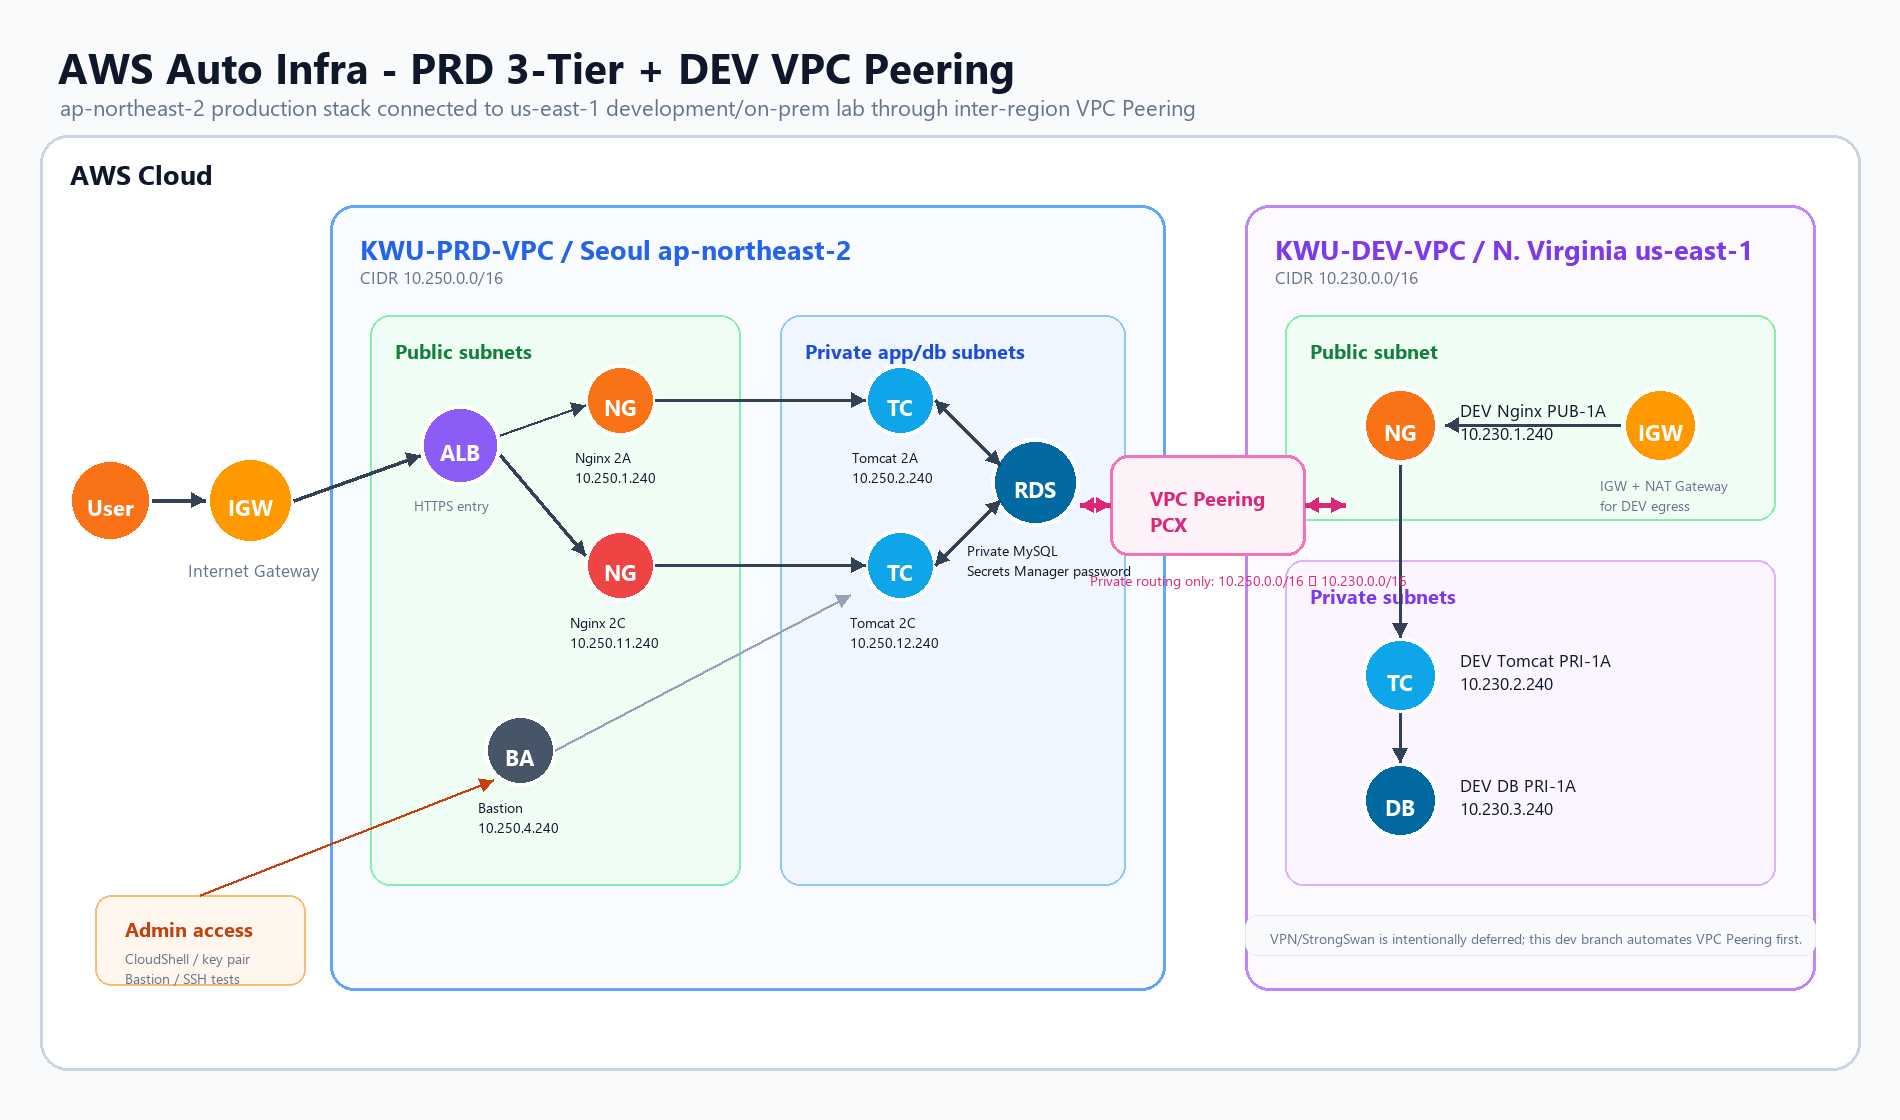
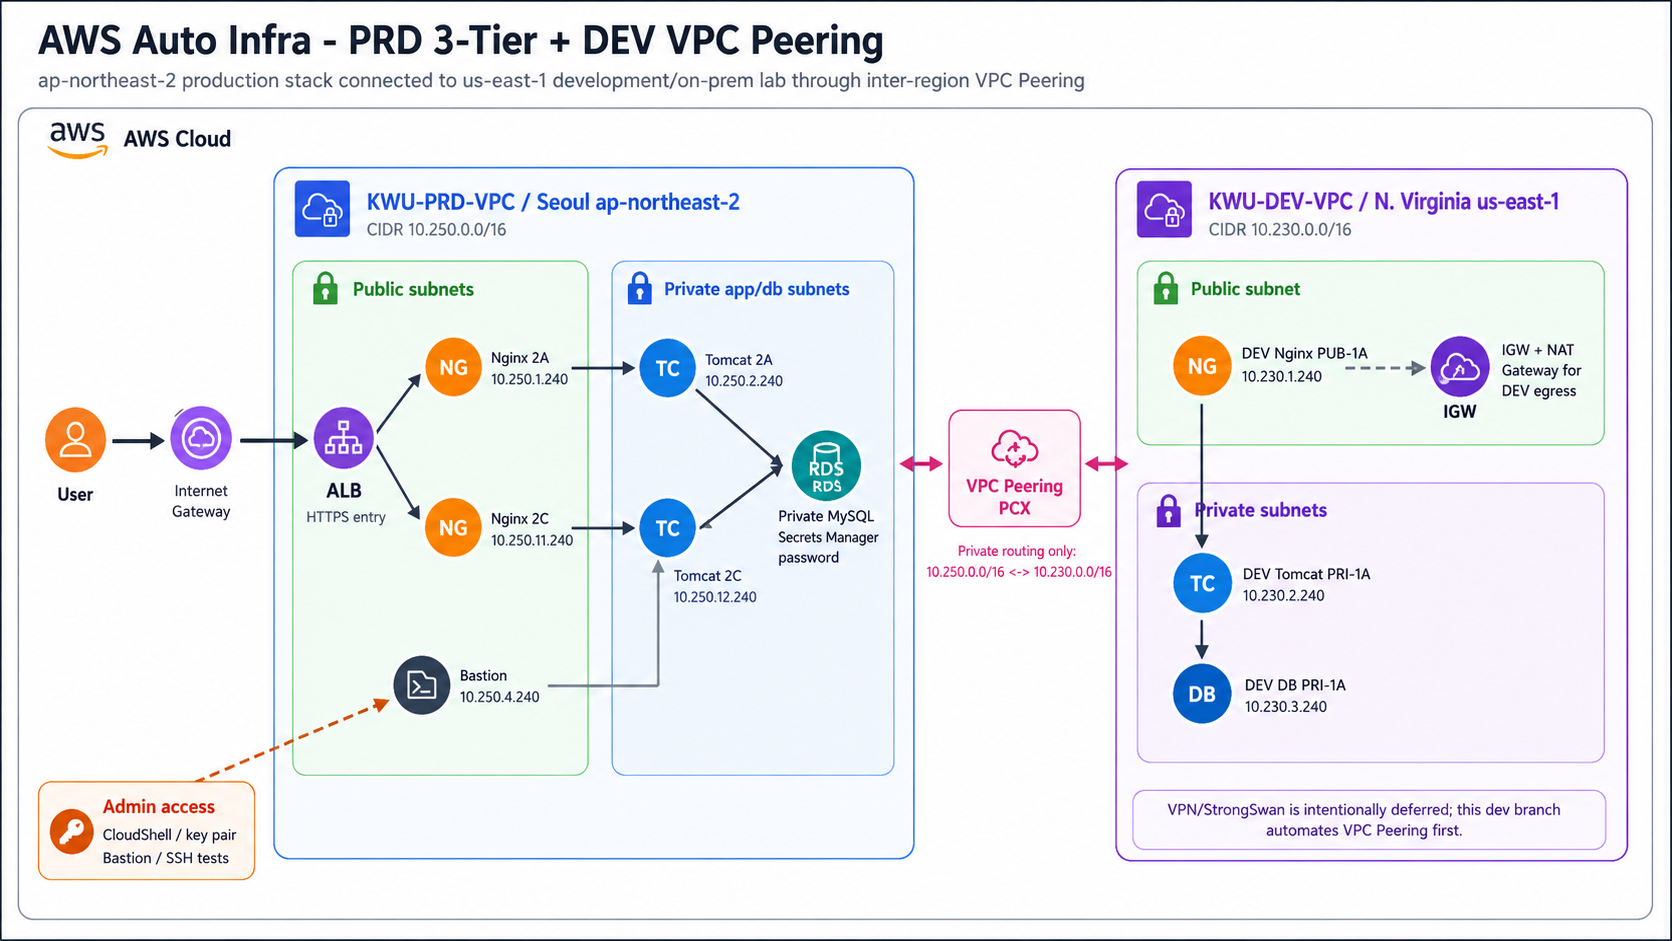
feat: refine dev peering workflow

Changed region(s): [[0.0, 0.0, 1.0, 1.0], [0.4354, 0.7705, 0.5909, 0.8013]]

diff --git a/README.md b/README.md
@@ -29,7 +29,7 @@ The project uses two Availability Zones for the production Nginx and Tomcat tier
 
 - AWS CloudShell with AWS CLI credentials for `ap-northeast-2`.
 - A public Route 53 hosted zone already delegated to the apex domain you enter, such as `example.com`. If `www.example.com` is entered, the TUI automatically uses `example.com`.
-- An existing EC2 key pair with the same name in both `ap-northeast-2` and `us-east-1`. EC2 key pairs are regional, and the TUI validates both regions before applying.
+- Existing EC2 key pairs in both `ap-northeast-2` and `us-east-1`. EC2 key pairs are regional, so the TUI asks for the Seoul PRD key pair name and the Virginia DEV key pair name separately.
 - IAM permission to create the listed VPC, EC2, IAM, ELBv2, RDS, ACM, Route 53, Secrets Manager, and S3 resources. The first run must also be able to configure the generated S3 state bucket.
 
 No ACM certificate, RDS password, Terraform installation, or state bucket is required beforehand.
@@ -45,14 +45,15 @@ chmod +x auto_infra.sh scripts/lib.sh
 
 The menu accepts the following actions:
 
-1. **Create infrastructure** — enter the Route 53 domain and EC2 key-pair name. The script validates both before Terraform applies the stack.
-2. **Delete all infrastructure** — enter the same domain and key-pair name, then confirm. RDS is deleted without a final snapshot.
+1. **Create infrastructure** — enter the Route 53 domain, Seoul PRD EC2 key-pair name, and Virginia DEV EC2 key-pair name. The script validates both regions before Terraform applies the stack.
+2. **Delete all infrastructure** — enter the same domain and key-pair names, then confirm. RDS is deleted without a final snapshot.
 3. **Test ALB and application connectivity** — enter the domain. The script verifies two healthy ALB targets and retries the HTTPS database-health endpoint.
-4. **Exit** — makes no AWS changes.
+4. **Test VPC Peering connectivity** — enter the domain. The script verifies that the PCX is active and that both PRD and DEV route tables contain the expected peering routes.
+5. **Exit** — makes no AWS changes.
 
 The successful create output includes the HTTPS URLs, ALB DNS name, Bastion public IP, private RDS endpoint, DEV Nginx public IP, DEV private node IPs, VPC Peering connection ID, and the board health URL. Open `https://<your-domain>/app/` to use the board. Nginx exposes `/app/` publicly and strips that prefix before proxying to the private Tomcat ROOT application. The same JSP board is also deployed to the Tomcat `/app` context as a fallback, so prefix-stripped and non-stripped proxy paths both resolve instead of returning a Tomcat 404.
 
-After a successful create, the script exits immediately instead of waiting for application health checks. DNS, ALB target health, and Tomcat startup can settle independently; start the script again and use menu option 3 when you want to run the explicit connectivity test.
+After a successful create, the script exits immediately instead of waiting for application health checks. DNS, ALB target health, Tomcat startup, and PCX propagation can settle independently; start the script again and use menu option 3 or 4 when you want to run explicit connectivity tests.
 
 ## Security model
 
